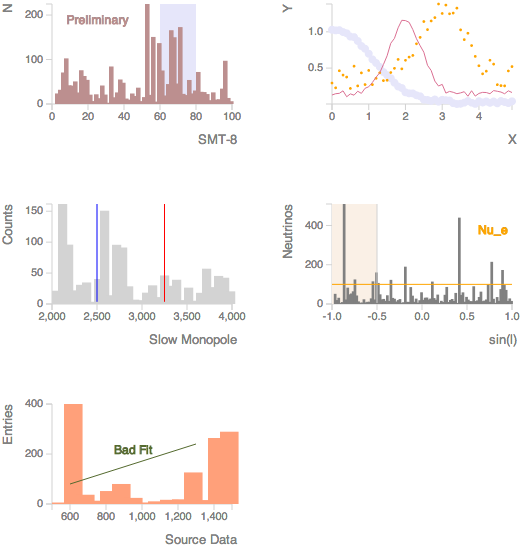
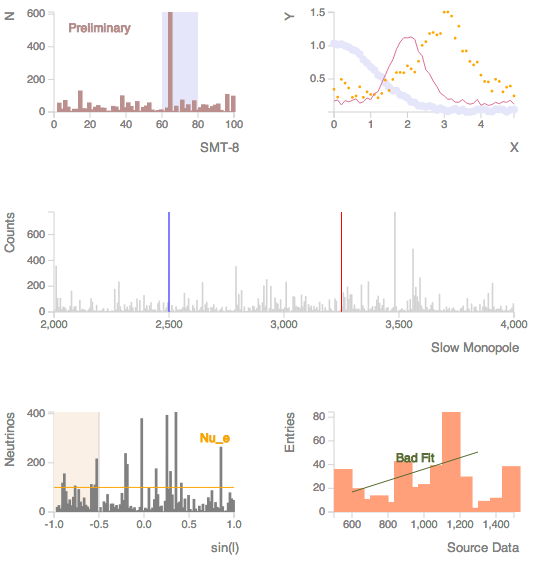
Update example plot

diff --git a/example.html b/example.html
@@ -38,10 +38,10 @@ bars({data: [{type: "bars",
 });
 
 bars({data: [{type: "bars",
-              bins: testdata(30),
+              bins: testdata(330),
               color: "lightgrey"}],
       div: "plot3",
-      size: [w, h],
+      size: [w * 2, h],
       xlabel: "Slow Monopole",
       ylabel: "Counts",
       range: [2000, 4000],
